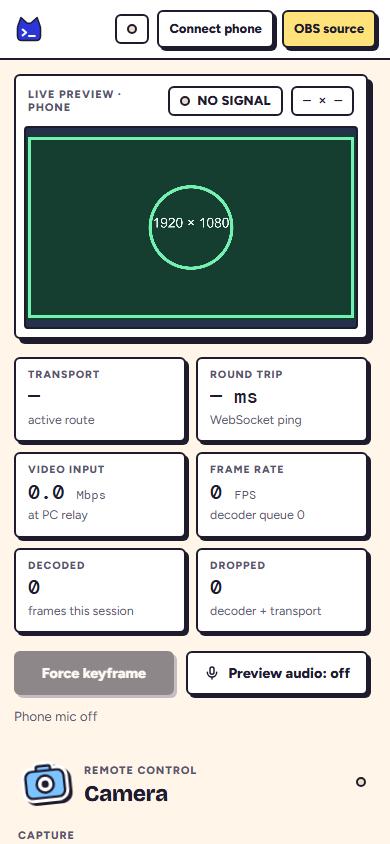
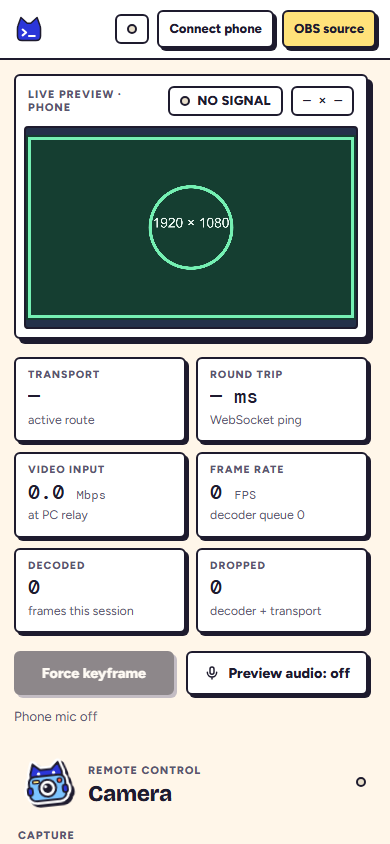
Rename project to LensPipe and replace sticker with custom Thor camera art
- Rename UI, HTML pages, README, package.json, certificate CN, and firewall rule to LensPipe (with legacy localStorage and firewall-rule compatibility)
- Replace the generic camera sticker across studio, sender, dialogs, and docs/brand/banner.svg with the custom Thor cámara AMSTech die-cut sticker
- Refresh docs/screenshots/ with the updated LensPipe branding and sticker

Changed region(s): [[0.0615, 0.8934, 0.5231, 0.955]]

diff --git a/control.html b/control.html
@@ -5,21 +5,21 @@
     <meta name="viewport" content="width=device-width, initial-scale=1" />
     <meta name="theme-color" content="#ffffff" />
     <link rel="icon" type="image/svg+xml" href="/favicon.svg" />
-    <title>Camera Link · Studio</title>
+    <title>LensPipe · Studio</title>
     <link rel="stylesheet" href="/src/control.css" />
   </head>
   <body>
     <div class="studio-shell">
       <header class="studio-header">
-        <h1 class="visually-hidden">Camera Link Studio</h1>
-        <a class="studio-brand logo" href="/control" translate="no"><svg class="thor" width="36" height="36" viewBox="-2 -2 52 52" aria-hidden="true"><path class="cabeza" d="M10 4L21 14h6L38 4l5 14q1 2 1 6v12q0 8-8 8H12q-8 0-8-8V24q0-4 1-6z"/><path class="prompt" d="M13 25l6 5-6 5M24 36h10"/></svg>camera link <span>amstech</span></a>
-        <svg class="sticker header-sticker" width="40" height="40" viewBox="-6 -6 76 76" aria-hidden="true"><g class="fondo"><rect x="21" y="9" width="20" height="10" rx="3"/><rect x="5" y="16" width="54" height="38" rx="9"/></g><g class="cuerpo"><rect x="21" y="9" width="20" height="10" rx="3"/><rect x="5" y="16" width="54" height="38" rx="9"/></g><circle class="lente" cx="32" cy="35" r="12"/><circle class="pupila" cx="32" cy="35" r="5"/></svg>
+        <h1 class="visually-hidden">LensPipe Studio</h1>
+        <a class="studio-brand logo" href="/control" translate="no"><svg class="thor" width="36" height="36" viewBox="-2 -2 52 52" aria-hidden="true"><path class="cabeza" d="M10 4L21 14h6L38 4l5 14q1 2 1 6v12q0 8-8 8H12q-8 0-8-8V24q0-4 1-6z"/><path class="prompt" d="M13 25l6 5-6 5M24 36h10"/></svg>lenspipe <span>amstech</span></a>
+        <svg class="sticker header-sticker" width="44" height="41" viewBox="-10 -8 92 86" aria-hidden="true"><g class="fondo"><path d="M16 5l11 10h18L56 5l5 15v16H11V20z"/><rect x="7" y="25" width="58" height="39" rx="10"/><rect x="4" y="42" width="8" height="12" rx="4"/><rect x="60" y="42" width="8" height="12" rx="4"/></g><path class="thor-cam" d="M16 5l11 10h18L56 5l5 15v13H11V20z"/><circle class="ojos" cx="24" cy="21" r="2.6"/><circle class="ojos" cx="48" cy="21" r="2.6"/><rect class="cuerpo" x="7" y="25" width="58" height="39" rx="10"/><rect class="franja" x="13" y="31" width="11" height="5" rx="2.5"/><circle class="tally" cx="56" cy="34" r="3.6"/><circle class="lente" cx="36" cy="45" r="13.5"/><circle class="pupila" cx="36" cy="45" r="7.5"/><circle class="brillo" cx="33" cy="42" r="2.4"/><rect class="patas" x="4" y="42" width="8" height="12" rx="4"/><rect class="patas" x="60" y="42" width="8" height="12" rx="4"/></svg>
         <div class="header-actions">
           <span id="connection-status" class="status-chip pill" role="status"><i aria-hidden="true"></i><span>Waiting for phone…</span></span>
           <button id="show-connection" type="button" class="secondary-button with-icon ico-plug">Connect phone</button>
           <button id="header-settings" type="button" class="secondary-button with-icon ico-sliders" aria-haspopup="dialog">Settings</button>
           <button id="open-obs" type="button" class="secondary-button yellow-button with-icon ico-obs">OBS source</button>
-          <button id="header-about" type="button" class="secondary-button icon-button with-icon ico-info" aria-haspopup="dialog" aria-label="About Camera Link" title="About"></button>
+          <button id="header-about" type="button" class="secondary-button icon-button with-icon ico-info" aria-haspopup="dialog" aria-label="About LensPipe" title="About"></button>
         </div>
       </header>
 
@@ -34,7 +34,7 @@
               <canvas id="preview" title="Click to focus (when Focus is Continuous)"></canvas>
               <div id="focus-ring" class="focus-ring" aria-hidden="true"></div>
               <div id="waiting" class="waiting-overlay">
-                <svg class="sticker" width="72" height="72" viewBox="-6 -6 76 76" aria-hidden="true"><g class="fondo"><rect x="21" y="9" width="20" height="10" rx="3"/><rect x="5" y="16" width="54" height="38" rx="9"/></g><g class="cuerpo"><rect x="21" y="9" width="20" height="10" rx="3"/><rect x="5" y="16" width="54" height="38" rx="9"/></g><circle class="lente" cx="32" cy="35" r="12"/><circle class="pupila" cx="32" cy="35" r="5"/></svg>
+                <svg class="sticker" width="78" height="73" viewBox="-10 -8 92 86" aria-hidden="true"><g class="fondo"><path d="M16 5l11 10h18L56 5l5 15v16H11V20z"/><rect x="7" y="25" width="58" height="39" rx="10"/><rect x="4" y="42" width="8" height="12" rx="4"/><rect x="60" y="42" width="8" height="12" rx="4"/></g><path class="thor-cam" d="M16 5l11 10h18L56 5l5 15v13H11V20z"/><circle class="ojos" cx="24" cy="21" r="2.6"/><circle class="ojos" cx="48" cy="21" r="2.6"/><rect class="cuerpo" x="7" y="25" width="58" height="39" rx="10"/><rect class="franja" x="13" y="31" width="11" height="5" rx="2.5"/><circle class="tally" cx="56" cy="34" r="3.6"/><circle class="lente" cx="36" cy="45" r="13.5"/><circle class="pupila" cx="36" cy="45" r="7.5"/><circle class="brillo" cx="33" cy="42" r="2.4"/><rect class="patas" x="4" y="42" width="8" height="12" rx="4"/><rect class="patas" x="60" y="42" width="8" height="12" rx="4"/></svg>
                 <div class="pulse-ring"></div>
                 <span class="kicker">No signal</span>
                 <strong>Camera is offline</strong>
@@ -70,7 +70,7 @@
 
         <aside class="control-panel">
           <div class="panel-heading">
-            <svg class="sticker" width="54" height="54" viewBox="-6 -6 76 76" aria-hidden="true"><g class="fondo"><rect x="21" y="9" width="20" height="10" rx="3"/><rect x="5" y="16" width="54" height="38" rx="9"/></g><g class="cuerpo"><rect x="21" y="9" width="20" height="10" rx="3"/><rect x="5" y="16" width="54" height="38" rx="9"/></g><circle class="lente" cx="32" cy="35" r="12"/><circle class="pupila" cx="32" cy="35" r="5"/></svg>
+            <svg class="sticker" width="58" height="54" viewBox="-10 -8 92 86" aria-hidden="true"><g class="fondo"><path d="M16 5l11 10h18L56 5l5 15v16H11V20z"/><rect x="7" y="25" width="58" height="39" rx="10"/><rect x="4" y="42" width="8" height="12" rx="4"/><rect x="60" y="42" width="8" height="12" rx="4"/></g><path class="thor-cam" d="M16 5l11 10h18L56 5l5 15v13H11V20z"/><circle class="ojos" cx="24" cy="21" r="2.6"/><circle class="ojos" cx="48" cy="21" r="2.6"/><rect class="cuerpo" x="7" y="25" width="58" height="39" rx="10"/><rect class="franja" x="13" y="31" width="11" height="5" rx="2.5"/><circle class="tally" cx="56" cy="34" r="3.6"/><circle class="lente" cx="36" cy="45" r="13.5"/><circle class="pupila" cx="36" cy="45" r="7.5"/><circle class="brillo" cx="33" cy="42" r="2.4"/><rect class="patas" x="4" y="42" width="8" height="12" rx="4"/><rect class="patas" x="60" y="42" width="8" height="12" rx="4"/></svg>
             <div><span class="kicker">Remote control</span><h2>Camera</h2></div>
             <i id="remote-dot" aria-hidden="true"></i>
           </div>
@@ -150,7 +150,7 @@
     <dialog id="settings-modal" aria-labelledby="settings-title">
       <form method="dialog" class="modal-card settings-card">
         <header>
-          <svg class="sticker" width="48" height="48" viewBox="-6 -6 76 76" aria-hidden="true"><g class="fondo"><rect x="21" y="9" width="20" height="10" rx="3"/><rect x="5" y="16" width="54" height="38" rx="9"/></g><g class="cuerpo"><rect x="21" y="9" width="20" height="10" rx="3"/><rect x="5" y="16" width="54" height="38" rx="9"/></g><circle class="lente" cx="32" cy="35" r="12"/><circle class="pupila" cx="32" cy="35" r="5"/></svg>
+          <svg class="sticker" width="52" height="48" viewBox="-10 -8 92 86" aria-hidden="true"><g class="fondo"><path d="M16 5l11 10h18L56 5l5 15v16H11V20z"/><rect x="7" y="25" width="58" height="39" rx="10"/><rect x="4" y="42" width="8" height="12" rx="4"/><rect x="60" y="42" width="8" height="12" rx="4"/></g><path class="thor-cam" d="M16 5l11 10h18L56 5l5 15v13H11V20z"/><circle class="ojos" cx="24" cy="21" r="2.6"/><circle class="ojos" cx="48" cy="21" r="2.6"/><rect class="cuerpo" x="7" y="25" width="58" height="39" rx="10"/><rect class="franja" x="13" y="31" width="11" height="5" rx="2.5"/><circle class="tally" cx="56" cy="34" r="3.6"/><circle class="lente" cx="36" cy="45" r="13.5"/><circle class="pupila" cx="36" cy="45" r="7.5"/><circle class="brillo" cx="33" cy="42" r="2.4"/><rect class="patas" x="4" y="42" width="8" height="12" rx="4"/><rect class="patas" x="60" y="42" width="8" height="12" rx="4"/></svg>
           <div><span class="eyebrow">Applied on the phone</span><h2 id="settings-title">Stream settings</h2><p>Changes apply immediately and are remembered by the phone.</p></div>
           <button class="close-modal with-icon ico-x" value="close" aria-label="Close"></button>
         </header>
@@ -233,8 +233,8 @@
     <dialog id="about-modal" class="about-dialog" aria-labelledby="about-title">
       <form method="dialog" class="modal-card">
         <header>
-          <svg class="sticker" width="48" height="48" viewBox="-6 -6 76 76" aria-hidden="true"><g class="fondo"><rect x="21" y="9" width="20" height="10" rx="3"/><rect x="5" y="16" width="54" height="38" rx="9"/></g><g class="cuerpo"><rect x="21" y="9" width="20" height="10" rx="3"/><rect x="5" y="16" width="54" height="38" rx="9"/></g><circle class="lente" cx="32" cy="35" r="12"/><circle class="pupila" cx="32" cy="35" r="5"/></svg>
-          <div><span class="eyebrow">An AMSTech project</span><h2 id="about-title">Camera Link</h2><p>Low-latency local studio camera for PC and OBS — iPhone &amp; Android, no app, no cloud, no account.</p></div>
+          <svg class="sticker" width="52" height="48" viewBox="-10 -8 92 86" aria-hidden="true"><g class="fondo"><path d="M16 5l11 10h18L56 5l5 15v16H11V20z"/><rect x="7" y="25" width="58" height="39" rx="10"/><rect x="4" y="42" width="8" height="12" rx="4"/><rect x="60" y="42" width="8" height="12" rx="4"/></g><path class="thor-cam" d="M16 5l11 10h18L56 5l5 15v13H11V20z"/><circle class="ojos" cx="24" cy="21" r="2.6"/><circle class="ojos" cx="48" cy="21" r="2.6"/><rect class="cuerpo" x="7" y="25" width="58" height="39" rx="10"/><rect class="franja" x="13" y="31" width="11" height="5" rx="2.5"/><circle class="tally" cx="56" cy="34" r="3.6"/><circle class="lente" cx="36" cy="45" r="13.5"/><circle class="pupila" cx="36" cy="45" r="7.5"/><circle class="brillo" cx="33" cy="42" r="2.4"/><rect class="patas" x="4" y="42" width="8" height="12" rx="4"/><rect class="patas" x="60" y="42" width="8" height="12" rx="4"/></svg>
+          <div><span class="eyebrow">An AMSTech project</span><h2 id="about-title">LensPipe</h2><p>Low-latency local studio camera for PC and OBS — iPhone &amp; Android, no app, no cloud, no account.</p></div>
           <button class="close-modal with-icon ico-x" value="close" aria-label="Close"></button>
         </header>
         <section class="about-brand-card">

diff --git a/sender.html b/sender.html
@@ -5,13 +5,13 @@
     <meta name="viewport" content="width=device-width, initial-scale=1, viewport-fit=cover" />
     <meta name="theme-color" content="#ffffff" />
     <link rel="icon" type="image/svg+xml" href="/favicon.svg" />
-    <title>Camera Link · Sender</title>
+    <title>LensPipe · Sender</title>
     <link rel="stylesheet" href="/src/sender.css" />
   </head>
   <body>
     <main class="sender-shell">
       <header class="sender-header">
-        <div class="brand logo" translate="no"><svg class="thor" width="26" height="26" viewBox="-2 -2 52 52" aria-hidden="true"><path class="cabeza" d="M10 4L21 14h6L38 4l5 14q1 2 1 6v12q0 8-8 8H12q-8 0-8-8V24q0-4 1-6z"/><path class="prompt" d="M13 25l6 5-6 5M24 36h10"/></svg>camera link<span class="live-dot dot" aria-hidden="true"></span></div>
+        <div class="brand logo" translate="no"><svg class="thor" width="26" height="26" viewBox="-2 -2 52 52" aria-hidden="true"><path class="cabeza" d="M10 4L21 14h6L38 4l5 14q1 2 1 6v12q0 8-8 8H12q-8 0-8-8V24q0-4 1-6z"/><path class="prompt" d="M13 25l6 5-6 5M24 36h10"/></svg>lenspipe<span class="live-dot dot" aria-hidden="true"></span></div>
         <div class="telemetry-pill">
           <strong id="transport">—</strong><span id="bitrate-live">0 Mbps</span><span id="resolution-live">—</span><span id="fps-live">0 FPS</span><span id="queue-live">Q0</span>
         </div>
@@ -90,9 +90,9 @@
       </dialog>
 
       <section id="start-screen" class="start-screen">
-        <svg class="sticker start-sticker" width="92" height="92" viewBox="-6 -6 76 76" aria-hidden="true"><g class="fondo"><rect x="21" y="9" width="20" height="10" rx="3"/><rect x="5" y="16" width="54" height="38" rx="9"/></g><g class="cuerpo"><rect x="21" y="9" width="20" height="10" rx="3"/><rect x="5" y="16" width="54" height="38" rx="9"/></g><circle class="lente" cx="32" cy="35" r="12"/><circle class="pupila" cx="32" cy="35" r="5"/></svg>
+        <svg class="sticker start-sticker" width="98" height="92" viewBox="-10 -8 92 86" aria-hidden="true"><g class="fondo"><path d="M16 5l11 10h18L56 5l5 15v16H11V20z"/><rect x="7" y="25" width="58" height="39" rx="10"/><rect x="4" y="42" width="8" height="12" rx="4"/><rect x="60" y="42" width="8" height="12" rx="4"/></g><path class="thor-cam" d="M16 5l11 10h18L56 5l5 15v13H11V20z"/><circle class="ojos" cx="24" cy="21" r="2.6"/><circle class="ojos" cx="48" cy="21" r="2.6"/><rect class="cuerpo" x="7" y="25" width="58" height="39" rx="10"/><rect class="franja" x="13" y="31" width="11" height="5" rx="2.5"/><circle class="tally" cx="56" cy="34" r="3.6"/><circle class="lente" cx="36" cy="45" r="13.5"/><circle class="pupila" cx="36" cy="45" r="7.5"/><circle class="brillo" cx="33" cy="42" r="2.4"/><rect class="patas" x="4" y="42" width="8" height="12" rx="4"/><rect class="patas" x="60" y="42" width="8" height="12" rx="4"/></svg>
         <div class="start-card">
-          <span class="logo" translate="no"><svg class="thor" width="28" height="28" viewBox="-2 -2 52 52" aria-hidden="true"><path class="cabeza" d="M10 4L21 14h6L38 4l5 14q1 2 1 6v12q0 8-8 8H12q-8 0-8-8V24q0-4 1-6z"/><path class="prompt" d="M13 25l6 5-6 5M24 36h10"/></svg>camera link</span>
+          <span class="logo" translate="no"><svg class="thor" width="28" height="28" viewBox="-2 -2 52 52" aria-hidden="true"><path class="cabeza" d="M10 4L21 14h6L38 4l5 14q1 2 1 6v12q0 8-8 8H12q-8 0-8-8V24q0-4 1-6z"/><path class="prompt" d="M13 25l6 5-6 5M24 36h10"/></svg>lenspipe</span>
           <h1>Your phone, your studio camera.</h1>
           <p>Enable camera access, then keep this tab open. Works on iPhone and Android — for USB, connect the cable and enable Personal Hotspot or USB tethering.</p>
           <button id="start" class="primary-button">Start camera</button>

diff --git a/server/network.ts b/server/network.ts
@@ -14,7 +14,7 @@ export interface NetworkEndpoint {
   networkCategory?: string;
   /**
    * Set when Windows Firewall will most likely block the phone: the interface is on the Public profile
-   * and no "Camera Link" allow rule exists. Holds the PowerShell (admin) command that fixes it.
+   * and no "LensPipe" allow rule exists. Holds the PowerShell (admin) command that fixes it.
    */
   firewallFix?: string;
   /**
@@ -35,7 +35,7 @@ const USB_DESC_PATTERN = /apple mobile device|iphone|ipad|remote ndis|rndis|andr
 const WIFI_NAME_PATTERN = /wi-?fi|wlan|wireless|airport/i;
 const HOTSPOT_IP_PATTERN = /^172\.20\.1[01]\./;
 const PRIVATE_PATTERNS = [/^10\./, /^192\.168\./, /^172\.(1[6-9]|2\d|3[01])\./];
-export const FIREWALL_RULE_NAME = 'Camera Link (local sender)';
+export const FIREWALL_RULE_NAME = 'LensPipe (local sender)';
 const PROFILE_RECHECK_MS = 15_000;
 const LINK_DOWN_RECHECK_MS = 5_000;
 /** Reads network profiles, adapter descriptions, whether our firewall rule exists, and whether each iOS USB gateway answers ARP. */
@@ -44,7 +44,7 @@ function profileQuery(gateways: string[]): string {
   return [
     '$p = @(Get-NetConnectionProfile | ForEach-Object { @{ alias = $_.InterfaceAlias; category = [string]$_.NetworkCategory } });',
     '$a = @(Get-NetAdapter | ForEach-Object { @{ alias = $_.Name; desc = [string]$_.InterfaceDescription } });',
-    `$r = @(Get-NetFirewallRule -DisplayName '${FIREWALL_RULE_NAME}' -ErrorAction SilentlyContinue | Where-Object { $_.Enabled -eq 'True' }).Count -gt 0;`,
+    `$r = @(Get-NetFirewallRule -DisplayName @('${FIREWALL_RULE_NAME}', 'Camera Link (local sender)') -ErrorAction SilentlyContinue | Where-Object { $_.Enabled -eq 'True' }).Count -gt 0;`,
     // A ping forces an ARP resolution; the neighbor state then tells whether the iPhone is really there.
     `$n = @(foreach ($ip in @(${list})) { ping -n 1 -w 800 $ip | Out-Null; @{ ip = $ip; state = [string](Get-NetNeighbor -IPAddress $ip -ErrorAction SilentlyContinue | Select-Object -First 1).State } });`,
     '@{ profiles = $p; adapters = $a; rule = $r; neighbors = $n } | ConvertTo-Json -Compress -Depth 3',

diff --git a/src/shared.css b/src/shared.css
@@ -58,10 +58,15 @@ h1, h2, h3 { text-wrap: balance; }
 .thor .cabeza { fill: var(--ams-thor); stroke: var(--borde); stroke-width: 2.6; stroke-linejoin: round; }
 .thor .prompt { fill: none; stroke: #fff; stroke-width: 3.6; stroke-linecap: round; stroke-linejoin: round; }
 .sticker { display: block; flex: none; overflow: visible; filter: drop-shadow(3px 3px 0 var(--borde)); }
-.sticker .fondo { fill: #fff; stroke: #fff; stroke-width: 12; stroke-linejoin: round; }
-.sticker .cuerpo { fill: var(--camara); stroke: var(--borde); stroke-width: 3.5; stroke-linejoin: round; }
-.sticker .lente { fill: #fff; stroke: var(--borde); stroke-width: 3.5; }
+.sticker .fondo { fill: #fff; stroke: #fff; stroke-width: 11; stroke-linejoin: round; }
+.sticker .thor-cam { fill: var(--ams-thor); stroke: var(--borde); stroke-width: 3.2; stroke-linejoin: round; }
+.sticker .ojos, .sticker .brillo { fill: #fff; }
+.sticker .cuerpo { fill: var(--camara); stroke: var(--borde); stroke-width: 3.2; stroke-linejoin: round; }
+.sticker .franja { fill: var(--amarillo); stroke: var(--borde); stroke-width: 2.2; }
+.sticker .tally { fill: var(--ams-senal); stroke: var(--borde); stroke-width: 2.2; }
+.sticker .lente { fill: #fff; stroke: var(--borde); stroke-width: 3.2; }
 .sticker .pupila { fill: var(--borde); }
+.sticker .patas { fill: var(--ams-thor); stroke: var(--borde); stroke-width: 2.8; }
 /* project line: "An AMSTech project" plus what is shared */
 .signature { color: var(--gris); font-size: .78rem; font-weight: 600; letter-spacing: 0; text-transform: none; white-space: nowrap; }
 .signature b { color: var(--tinta); font-weight: 800; }

diff --git a/diag.html b/diag.html
@@ -5,7 +5,7 @@
     <meta name="viewport" content="width=device-width, initial-scale=1, viewport-fit=cover" />
     <meta name="theme-color" content="#ffffff" />
     <link rel="icon" type="image/svg+xml" href="/favicon.svg" />
-    <title>Camera Link · Camera formats</title>
+    <title>LensPipe · Camera formats</title>
     <link rel="stylesheet" href="/src/shared.css" />
     <style>
       body { padding: max(20px, env(safe-area-inset-top)) max(16px, env(safe-area-inset-right)) 32px max(16px, env(safe-area-inset-left)); }
@@ -25,7 +25,7 @@
   </head>
   <body>
     <main>
-      <span class="kicker">Camera link · diagnostics</span>
+      <span class="kicker">LensPipe · diagnostics</span>
       <h1>Camera formats</h1>
       <p>Tests which capture sizes and frame rates this browser gives on each lens, then sends the results to the PC. Keep this page open; it takes about a minute.</p>
       <button id="run" class="primary-button" type="button">Run test</button>

diff --git a/src/pairing.ts b/src/pairing.ts
@@ -3,7 +3,8 @@
  * fragment (`#k=…`), which never reaches the server or the Referer; it is kept per device so reloading
  * the bare URL keeps working, and removed from the address bar.
  */
-const STORAGE_KEY = 'camera-link.pairing-token';
+const STORAGE_KEY = 'lenspipe.pairing-token';
+const LEGACY_STORAGE_KEY = 'camera-link.pairing-token';
 let cached: string | null | undefined;
 
 export function pairingToken(): string | null {
@@ -15,7 +16,16 @@ export function pairingToken(): string | null {
     cached = fromUrl;
     return cached;
   }
-  try { cached = localStorage.getItem(STORAGE_KEY); } catch { cached = null; }
+  try {
+    cached = localStorage.getItem(STORAGE_KEY);
+    if (!cached) {
+      const legacy = localStorage.getItem(LEGACY_STORAGE_KEY);
+      if (legacy) {
+        cached = legacy;
+        try { localStorage.setItem(STORAGE_KEY, legacy); } catch { /* ignore */ }
+      }
+    }
+  } catch { cached = null; }
   return cached;
 }
 

diff --git a/src/sender/main.ts b/src/sender/main.ts
@@ -93,7 +93,8 @@ function interfaceOrientation(): number {
   return angle === 270 ? -90 : angle;
 }
 const MIN_FORCED_KEYFRAME_GAP_MS = 250;
-const PREFERENCES_KEY = 'camera-link:stream-settings';
+const PREFERENCES_KEY = 'lenspipe:stream-settings';
+const LEGACY_PREFERENCES_KEY = 'camera-link:stream-settings';
 
 interface EncoderCandidate {
   config: VideoEncoderConfig & Record<string, unknown>;
@@ -105,7 +106,8 @@ interface EncoderCandidate {
 
 function loadPreferences(): Partial<StreamSettings> {
   try {
-    return sanitizeSettings(JSON.parse(localStorage.getItem(PREFERENCES_KEY) || '{}'));
+    const stored = localStorage.getItem(PREFERENCES_KEY) ?? localStorage.getItem(LEGACY_PREFERENCES_KEY);
+    return sanitizeSettings(JSON.parse(stored || '{}'));
   } catch {
     return {};
   }

diff --git a/index.html b/index.html
@@ -1,1 +1,1 @@
-<!doctype html><html lang="en"><head><meta charset="UTF-8"><meta name="viewport" content="width=device-width,initial-scale=1"><meta http-equiv="refresh" content="0; url=/control"><link rel="icon" type="image/svg+xml" href="/favicon.svg"><title>Camera Link</title></head><body><a href="/control">Open Camera Link Studio</a></body></html>
+<!doctype html><html lang="en"><head><meta charset="UTF-8"><meta name="viewport" content="width=device-width,initial-scale=1"><meta http-equiv="refresh" content="0; url=/control"><link rel="icon" type="image/svg+xml" href="/favicon.svg"><title>LensPipe</title></head><body><a href="/control">Open LensPipe Studio</a></body></html>

diff --git a/server/certificates.ts b/server/certificates.ts
@@ -71,7 +71,7 @@ export async function ensureCertificate(network: NetworkSnapshot): Promise<Certi
       { type: 2, value: 'localhost' },
       ...uniqueAddresses.map((ip) => ({ type: 7 as const, ip })),
     ];
-    const pems = selfsigned.generate([{ name: 'commonName', value: 'Camera Link' }], {
+    const pems = selfsigned.generate([{ name: 'commonName', value: 'LensPipe' }], {
       days: 825,
       keySize: 2048,
       algorithm: 'sha256',

diff --git a/obs.html b/obs.html
@@ -4,7 +4,7 @@
     <meta charset="UTF-8" />
     <meta name="viewport" content="width=device-width, initial-scale=1" />
     <link rel="icon" type="image/svg+xml" href="/favicon.svg" />
-    <title>Camera Link · OBS</title>
+    <title>LensPipe · OBS</title>
     <style>
       html,body{margin:0;padding:0;width:100%;height:100%;background:#000;overflow:hidden}
       body{display:flex;align-items:center;justify-content:center}

diff --git a/README.md b/README.md
@@ -1,5 +1,5 @@
 <p align="center">
-  <img src="docs/brand/banner.svg" alt="Camera Link — An AMSTech project. Turn your iPhone or Android into a low-latency PC and OBS studio camera over USB or Wi-Fi." width="920">
+  <img src="docs/brand/banner.svg" alt="LensPipe — An AMSTech project. Turn your iPhone or Android into a low-latency PC and OBS studio camera over USB or Wi-Fi." width="920">
 </p>
 
 <p align="center">
@@ -53,7 +53,7 @@ Use your phone (**iPhone or Android**) as a low-latency studio camera on your PC
 | **Wi-Fi / LAN** | PC and phone on the same LAN with AP/client isolation disabled |
 
 > [!NOTE]
-> Built and tested thoroughly on iPhone (Safari) and verified on Android (Samsung Galaxy A57, Chrome). On Android, secondary lens controls, HEVC support, and max hardware encoding bitrate vary by device and browser; Camera Link automatically steps down codec profile, bitrate, or size when a hardware encoder refuses a setting.
+> Built and tested thoroughly on iPhone (Safari) and verified on Android (Samsung Galaxy A57, Chrome). On Android, secondary lens controls, HEVC support, and max hardware encoding bitrate vary by device and browser; LensPipe automatically steps down codec profile, bitrate, or size when a hardware encoder refuses a setting.
 
 ---
 
@@ -94,13 +94,13 @@ Click **Connect phone** in the top bar. USB connections appear under **Priority*
 ### USB cable (recommended)
 
 - **iPhone:** plug in the USB cable, tap **Trust** if prompted, and open **Settings → Personal Hotspot → Allow Others to Join** (keep that screen open briefly until the interface appears; cellular service is not required for local USB streaming, and Personal Hotspot must stay enabled while streaming).
-- **Android:** plug in the USB cable and turn on **USB tethering** in Android Settings (typically **Connections → Mobile Hotspot and Tethering**). On Windows, Camera Link detects RNDIS and USB-NCM tethering adapters alongside Apple USB interfaces.
+- **Android:** plug in the USB cable and turn on **USB tethering** in Android Settings (typically **Connections → Mobile Hotspot and Tethering**). On Windows, LensPipe detects RNDIS and USB-NCM tethering adapters alongside Apple USB interfaces.
 - Scan the **USB cable** QR code with your phone camera, or copy the sender URL including `#k=…` (on iPhone Personal Hotspot, typically `https://172.20.10.x:8443/sender#k=…`).
 
 > [!WARNING]
 > **If the USB page never loads on Windows:** Windows often assigns new USB tethering adapters (*Apple Mobile Device Ethernet* or Android RNDIS) to the **Public** network profile, whereas the initial Node.js firewall prompt usually grants **Private** access only. The server detects this automatically and shows the exact one-line fix in **Connect phone** and the terminal:
 > ```powershell
-> New-NetFirewallRule -DisplayName 'Camera Link (local sender)' -Direction Inbound -Action Allow -Protocol TCP -LocalPort 8443 -RemoteAddress 172.20.10.0/28 -Profile Public
+> New-NetFirewallRule -DisplayName 'LensPipe (local sender)' -Direction Inbound -Action Allow -Protocol TCP -LocalPort 8443 -RemoteAddress 172.20.10.0/28 -Profile Public
 > ```
 > Alternatively, change that USB adapter's **Network profile type** to **Private** in **Settings → Network & internet → Ethernet**.
 
@@ -268,14 +268,14 @@ Pull requests and issues are welcome. Before opening a PR, run `npm run typechec
 
 ## Design
 
-Camera Link follows the **AMSTech brand manual v1.5 («stickers only»)** implemented via the offline-bundled package in [`src/amstech-ui/`](src/amstech-ui/README.md) (so every asset stays `'self'`-hosted under strict CSP):
+LensPipe follows the **AMSTech brand manual v1.5 («stickers only»)** implemented via the offline-bundled package in [`src/amstech-ui/`](src/amstech-ui/README.md) (so every asset stays `'self'`-hosted under strict CSP):
 
 | Element | Specification |
 | --- | --- |
 | **Palette (always light)** | Cream paper `#FFF6E9`, white cards `#FFFFFF`, ink `#1E1B2E`, `2.5 px` ink borders, `6 px` corners, hard ink shadows |
-| **Accents** | Cobalt `#2B36D9` (one primary CTA per view), yellow `#FFE27A` (selection, highlight & warning), sky blue `#7CC4FF` (camera sticker) |
+| **Accents** | Cobalt `#2B36D9` (one primary CTA per view), yellow `#FFE27A` (selection, highlight & warning), sky blue `#7CC4FF` (camera body) |
 | **Typography** | **Bricolage Grotesque** (display & headings), **Figtree** (UI copy), **DM Mono** (figures & URLs) — bundled under SIL OFL |
-| **Stickers & logo** | Cobalt **Thor** terminal head logo (`>_` + `| amstech`), camera die-cut sticker, and USB chapter-bar ears (boxes remain ear-free) |
+| **Stickers & logo** | Cobalt **Thor** terminal head logo (`>_` + `\| amstech`), custom **Thor cámara** die-cut sticker, and USB chapter-bar ears (boxes remain ear-free) |
 
 ---
 
